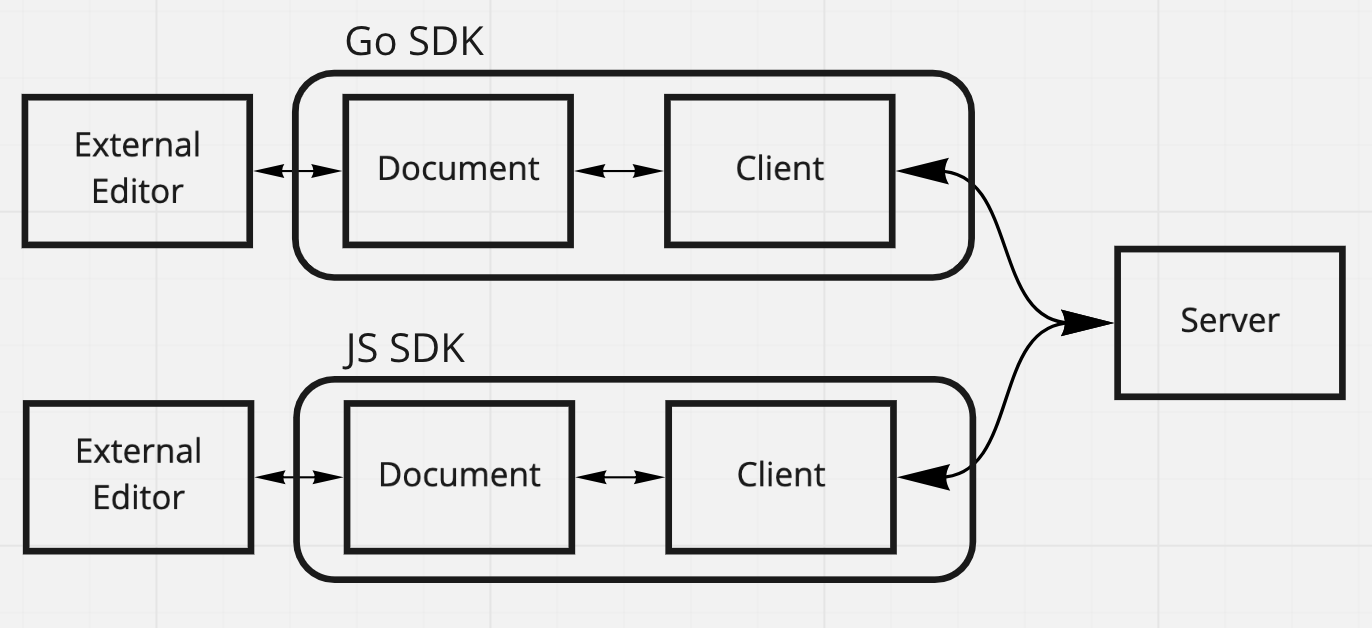
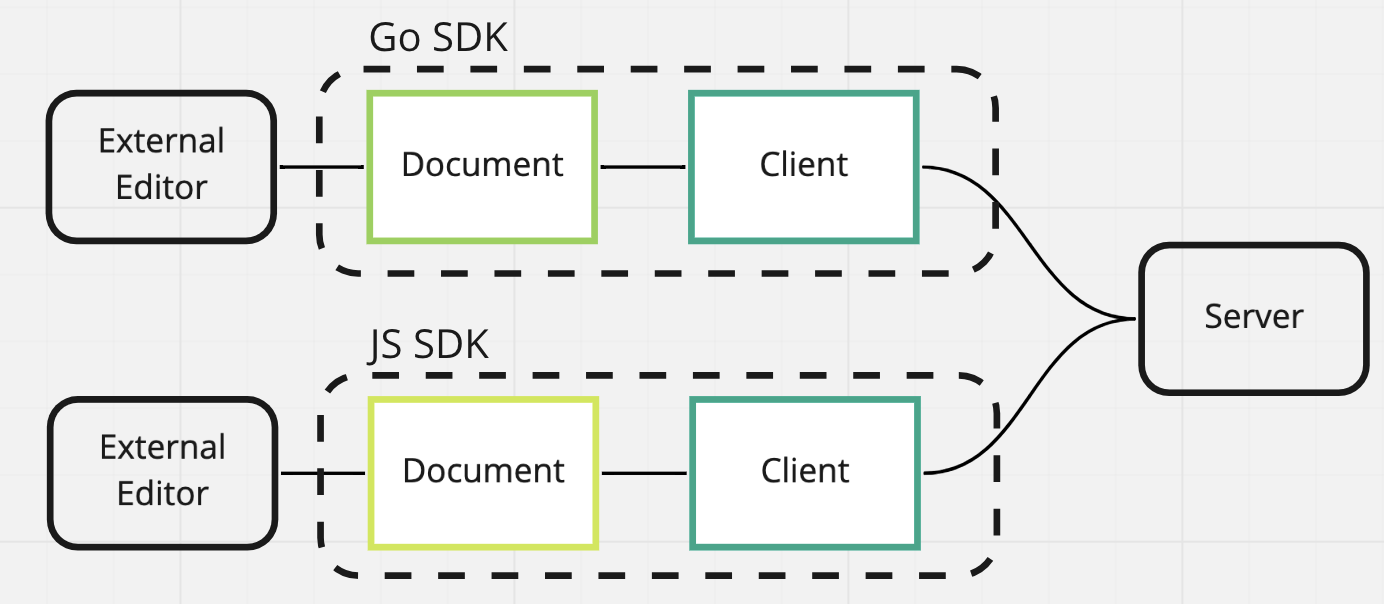
Add details and edit figures with color

Changed region(s): [[0.0, 0.0298, 1.0, 0.9834]]

diff --git a/design/document-editing.md b/design/document-editing.md
@@ -56,7 +56,10 @@ The figure above explains the Document in more detail, and three internal compon
 
 Local Editing consists of tree logic parts.
 
-1. Calling `Document.Update`: When this function is called, the Proxy creates Changes and adds them to LocalChanges.
+1. Calling `Document.Update`
+   - 1-1. When the function is called, `Proxy` creates Changes.
+   - 1-2. And then the changes are added to LocalChanges.
+   - 1-3. The changes also apply to the CRDT. The CRDT is only updated by changes.
 2. Pushing Changes to Server: Client checks LocalChanges of Document at specific intervals and sends them to the `Server`.
 3. Propagating Changes to Peers: Server stores changes received by the Client and propagates them to other peers who subscribe the Document.
 
